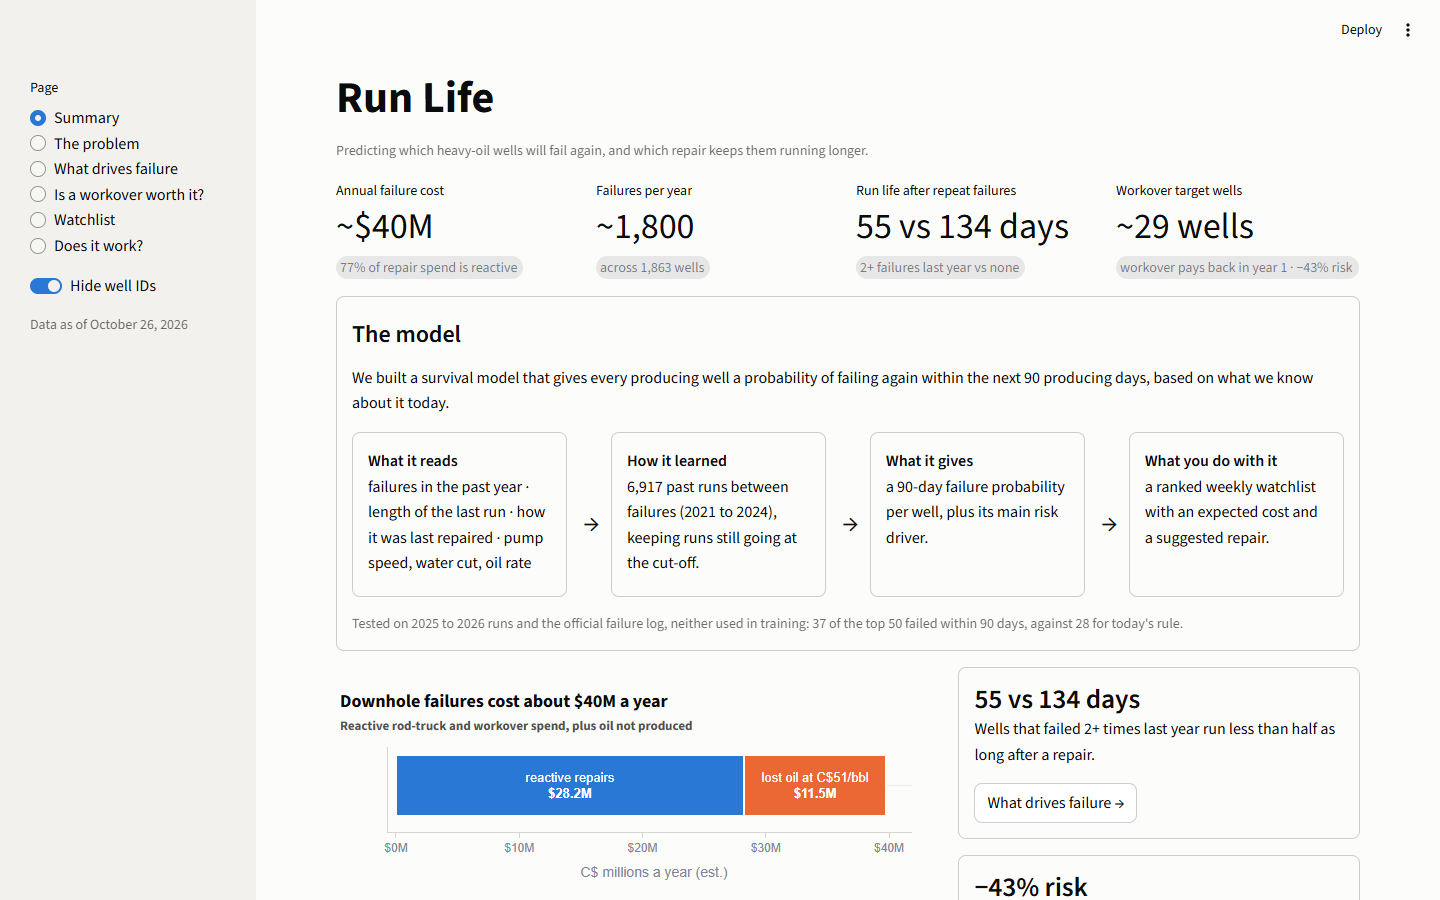
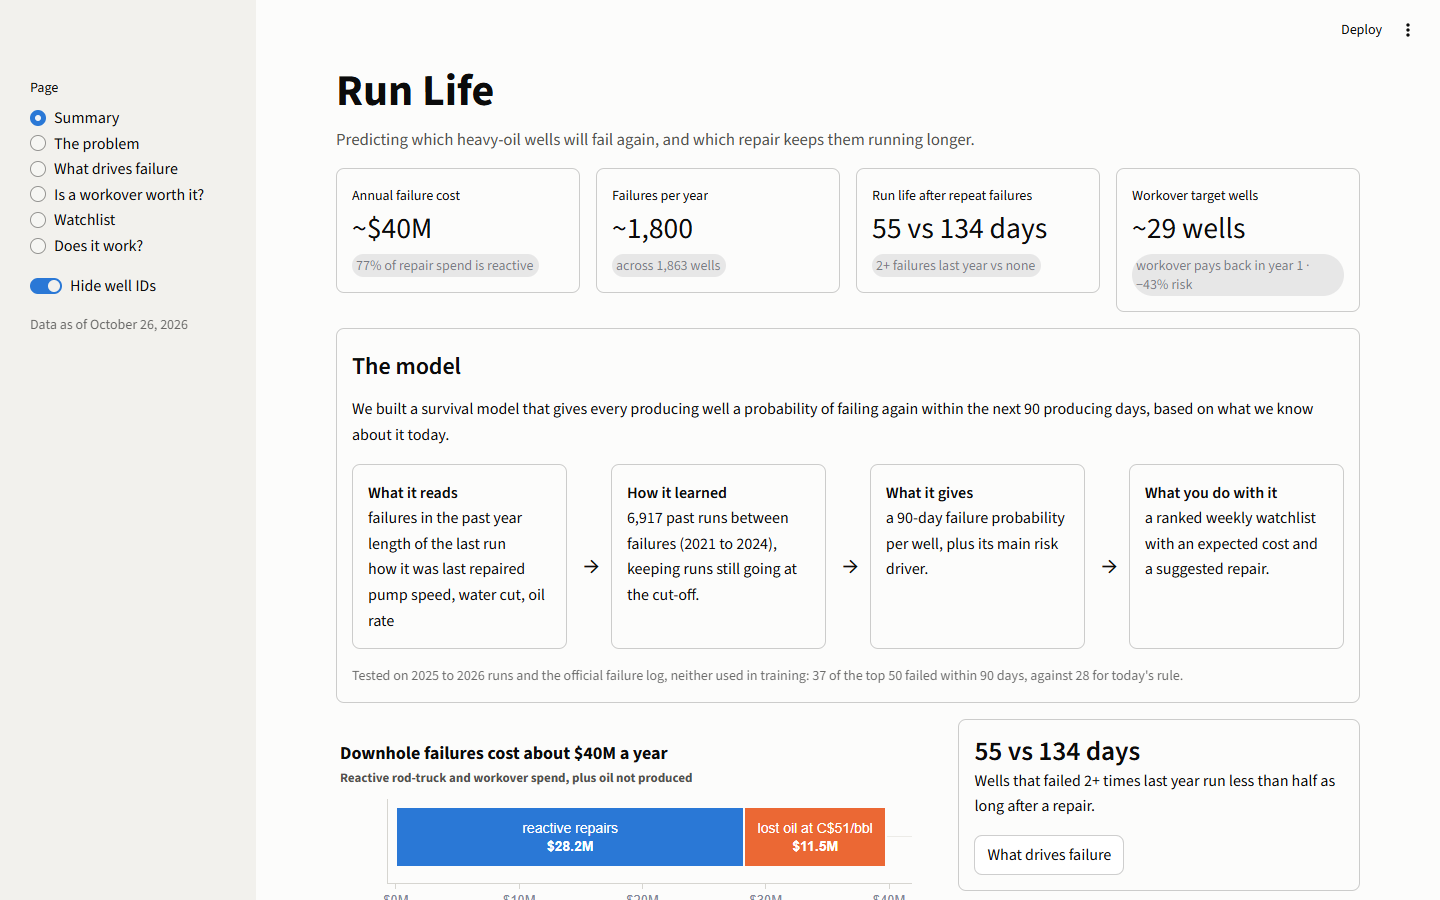
UI polish: width, cards, side-by-side charts

diff --git a/app.py b/app.py
@@ -80,8 +80,8 @@ def well_daily(uwi, end):
     return al.well_daily(uwi, end)
 
 
-def chart(fig):
-    st.plotly_chart(fig, width="stretch")
+chart = ui.chart
+H = ui.CHART_HEIGHT
 
 
 PAGES = {"summary": "Summary", "problem": "The problem", "drivers": "What drives failure",
@@ -127,7 +127,7 @@ if page == "Summary":
         st.markdown("#### The model")
         st.markdown(al.MODEL_SENTENCE)
         steps = [
-            ("What it reads", "failures in the past year · length of the last run · how it was last repaired · "
+            ("What it reads", "failures in the past year  \nlength of the last run  \nhow it was last repaired  \n"
                               "pump speed, water cut, oil rate"),
             ("How it learned", f"{mf['train_runs']:,} past runs between failures ({mf['train_years']}), "
                                "keeping runs still going at the cut-off."),
@@ -136,7 +136,7 @@ if page == "Summary":
         ]
         cols = st.columns([9, 1, 9, 1, 9, 1, 9], vertical_alignment="center")
         for i, (head, body) in enumerate(steps):
-            with cols[2 * i].container(border=True, height=165):
+            with cols[2 * i].container(border=True, height=185):
                 st.markdown(f"**{head}**  \n{body}")
             if i < len(steps) - 1:
                 cols[2 * i + 1].markdown("<div style='text-align:center;font-size:1.6rem'>→</div>",
@@ -149,9 +149,9 @@ if page == "Summary":
     with left:
         chart(plots.cost_per_year(d["sizing"], oil_value=oil))
         st.markdown("**What to do on Monday**")
-        st.markdown(f"1. **Review the top {k}:** check the watchlist every week.\n"
-                    f"2. **Workover, not a quick fix:** on the ~{N} target wells, at their next failure.\n"
-                    "3. **Check pump speed:** on high-RPM wells that keep failing.")
+        st.markdown(f"- **Review the top {k}:** check the watchlist every week.\n"
+                    f"- **Workover, not a quick fix:** on the ~{N} target wells, at their next failure.\n"
+                    "- **Check pump speed:** on high-RPM wells that keep failing.")
     with right:
         ui.insight_card(f"{n['days_2plus']:.0f} vs {n['days_none']:.0f} days",
                         f"Wells that failed 2+ times last year run {al.as_long(n['days_2plus'] / n['days_none'])} "
@@ -162,7 +162,7 @@ if page == "Summary":
         ui.insight_card(f"{n['model_hits']:.0f} of {k}",
                         f"Of our top {k} flagged wells, {n['model_hits']:.0f} failed within 90 days, vs "
                         f"{n['rule_hits']:.0f} for today's rule.", PAGES["watchlist"],
-                        button="See the watchlist →", key="go_watchlist")
+                        button="See the watchlist", key="go_watchlist")
 
     st.divider()
     ui.footer(f"Research question: {al.RESEARCH_QUESTION}")
@@ -176,15 +176,18 @@ elif page == "The problem":
     ui.kpi_strip([
         ("Failures per producing well-year", f"{n['failures_per_well_year']:.2f}",
          f"1 every {n['producing_days_per_failure']:.0f} producing days"),
-        ("Fail again within 30 days", f"{n['repeat_30d']:.0%}", "of repaired wells"),
+        ("Fail again within 30 days", f"{n['repeat_30d']:.0%}", "of repairs"),
         ("Reactive repair spend", f"{n['reactive_share']:.0%}",
          f"of ${n['repair_spend'] / 1e6:.0f}M total repair spend"),
     ])
     ui.so_what("Focus on a short list of wells, not the whole fleet.")
-    chart(plots.concentration(d["pareto"]))
+    left, right = st.columns([3, 2])
+    with left:
+        chart(plots.concentration(d["pareto"]), height=H, hide_title=True)
+    with right:
+        chart(plots.cost_per_year(d["sizing"], oil_value=oil), height=H)
     with st.expander("More detail"):
         chart(plots.failures_per_year(events()))
-        chart(plots.cost_per_year(d["sizing"], oil_value=oil))
     with st.expander("Technical detail"):
         st.markdown("- Failures are rebuilt from daily downtime codes: downhole days less than "
                     f"{config.EVENT_GAP_DAYS + 1} days apart count as one failure.\n"
@@ -200,13 +203,20 @@ elif page == "What drives failure":
         ("After a workover", f"{n['days_workover']:.0f} days", f"vs {n['days_rodtruck']:.0f} after rod truck only"),
     ])
     ui.so_what("A well's last year predicts its next 90 days, so the history alone can rank wells.")
-    labels = {"history": "Past failures", "rpm": "Pump speed", "water_cut": "Water cut", "repair": "Last repair"}
-    by = st.radio("Compare wells by", list(labels), format_func=labels.get, horizontal=True, key="by")
-    chart(plots.run_life(d["km_curves"], d["km_summary"], by))
-    st.caption("Each line shows the share of wells still running N days after a repair. "
-               "Lower and steeper means they break sooner.")
-    with st.expander("More detail"):
-        chart(plots.risk_drivers(d["cox_results"]))
+    left, right = st.columns([3, 2])
+    with left:
+        labels = {"history": "Past failures", "rpm": "Pump speed", "water_cut": "Water cut", "repair": "Last repair"}
+        by = st.radio("Compare wells by", list(labels), format_func=labels.get, horizontal=True, key="by")
+        chart(plots.run_life(d["km_curves"], d["km_summary"], by), height=H)
+        st.caption("Each line shows the share of wells still running N days after a repair. "
+                   "Lower and steeper means they break sooner.")
+        st.caption("Rods are the weak link: each rotation loads the rod string, so faster pumps mean more cycles "
+                   "and earlier fatigue.")
+    with right:
+        # In a narrow column the bar labels need more room on the left and a shorter axis title.
+        drivers_fig = plots.risk_drivers(d["cox_results"])
+        drivers_fig.update_xaxes(range=[-100, 45], title="change in risk (← longer runs · shorter →)")
+        chart(drivers_fig, height=H + 60)
         st.caption("How much each factor changes the risk of failure, holding the others fixed.")
     with st.expander("Technical detail"):
         st.markdown(
@@ -226,15 +236,22 @@ elif page == "Is a workover worth it?":
         ("Break-even", f"{plots.break_even_rate(inputs, oil):.1f} failures/yr", f"at C${oil:.2f}/bbl"),
     ])
     ui.so_what(f"Do a workover instead of a quick fix on the ~{N} target wells. It's not worth it fleet-wide.")
-    # The callback stores the new value before the rerun, so the header,
-    # tiles and "So what" above already use it.
-    st.slider("Oil value, C$/bbl", 35.0, 70.0, oil, key="oil",
-              on_change=lambda: st.session_state.update(oil_value=st.session_state["oil"]))
-    chart(plots.workover_payback(inputs, oil_value=oil))
-    with st.expander("More detail"):
-        chart(plots.run_life(d["km_curves"], d["km_summary"], "repair"))
+    left, right = st.columns([3, 2])
+    with left:
+        # The callback stores the new value before the rerun, so the header,
+        # tiles and "So what" above already use it.
+        st.slider("Oil value, C$/bbl", 35.0, 70.0, oil, key="oil",
+                  on_change=lambda: st.session_state.update(oil_value=st.session_state["oil"]))
+        payback_fig = plots.workover_payback(inputs, oil_value=oil)
+        # At this width the 1-year label collides with the break-even label, so it moves to the left end.
+        payback_fig.update_annotations(selector=dict(text="pays back within a year"), x=0, xanchor="left")
+        chart(payback_fig, height=H, hide_title=True)
+        st.caption("A workover replaces worn tubing and downhole equipment; a rod-truck job only swaps rods and "
+                   "pump, so the underlying wear stays.")
+    with right:
+        chart(plots.run_life(d["km_curves"], d["km_summary"], "repair"), height=H + 75)
     with st.expander("Technical detail"):
-        st.markdown(
+        st.markdown(ui.md_safe(
             f"- One failure costs the median rod-truck repair (${inputs['rodtruck_cost']:,.0f}) plus the lost oil "
             f"(fleet mean {inputs['oil_m3_per_event']:.1f} m³ per failure × 6.29 bbl/m³ × the oil value).\n"
             f"- Extra cost = median workover (${inputs['workover_cost']:,.0f}) minus median rod-truck job. The Cox "
@@ -246,7 +263,7 @@ elif page == "Is a workover worth it?":
             f"one year of avoided failures at their own cost per failure beats the extra cost: {N} wells, "
             f"~{imp['failures_avoided']:.0f} failures avoided a year.\n"
             f"- Year-one net saving on those wells: about ${imp['net_savings_year1'] / 1e6:.1f}M after paying for "
-            "the workovers; the benefit continues after year one.")
+            "the workovers; the benefit continues after year one."))
 
 # --------------------------------------------------------------------------
 elif page == "Watchlist":
@@ -272,17 +289,20 @@ elif page == "Watchlist":
             ("Expected failures", f"{top.risk_90.sum():.0f} of {len(top)}", "in the next 90 days"),
             ("Expected failure cost", f"${cost_top / 1e3:,.0f}k", f"next 90 days at C${oil:.0f}/bbl"),
         ])
-        ui.so_what(f"These {len(top)} wells carry ${cost_top:,.0f} of expected failure cost in the next 90 days; "
-                   f"{n_wo} should get a workover at their next failure.")
+        ui.so_what(f"These {len(top)} wells carry ${cost_top / 1e3:,.0f}k of expected failure cost in the next "
+                   f"90 days; {n_wo} should get a workover at their next failure.")
 
-    money = st.column_config.NumberColumn(format="$%.0f")
     default_cols = ["well", "area", "risk_90", "expected cost, 90 days", "main driver", "suggested action"]
-    # Shown as whole percent and whole dollars; the download keeps full precision.
-    st.dataframe(table.assign(risk_90=table.risk_90 * 100), hide_index=True, width="stretch",
+    # Shown as whole percent and dollars with separators; the download keeps
+    # full precision. Money is preformatted text because Streamlit's number
+    # formats cannot add thousands separators without also adding cents.
+    shown = table.assign(risk_90=table.risk_90 * 100)
+    for c in ["expected cost, 90 days", "cost per failure"]:
+        shown[c] = shown[c].map(lambda v: f"${v:,.0f}")
+    st.dataframe(shown, hide_index=True, width="stretch",
                  column_order=None if all_cols else default_cols, column_config={
                      "risk_90": st.column_config.ProgressColumn("risk %", format="%.0f%%",
                                                                 min_value=0.0, max_value=100.0),
-                     "expected cost, 90 days": money, "cost per failure": money,
                      "workover payback, yrs": st.column_config.NumberColumn(format="%.1f"),
                  })
     st.caption(f"{len(table):,} wells, sorted by {sort}; expected cost = risk × cost of one failure at "
@@ -299,22 +319,18 @@ elif page == "Watchlist":
         end = al.as_of(wl)
         c1, c2 = st.columns(2)
         with c1:
-            chart(plots.well_outlook(al.well_survival(model(), run), elapsed, label=name))
+            chart(plots.well_outlook(al.well_survival(model(), run), elapsed, label=name), height=H)
         with c2.container(border=True):
-            st.markdown(f"**What if? Next repair on {name}**")
+            st.markdown("**After its next repair: what if?**")
             lo, hi = rpm_range()
             now_rpm = al.current_rpm(run, model())
             repair = st.radio("Repair at the next failure", list(al.REPAIRS), horizontal=True, key="wi_repair")
             rpm = st.slider("Pump speed after restart, rpm", lo, hi, min(max(now_rpm, lo), hi), 1.0, format="%.0f",
                             key=f"wi_rpm_{uwi}")  # per well, so it starts at that well's speed
             wi = al.whatif(run, model(), events(), end, repair, rpm).set_index("option")
-            ui.kpi_strip([
-                (f"{repair} at {rpm:.0f} rpm", f"{wi.risk_90[repair]:.0%}",
-                 f"{(wi.risk_90[repair] - wi.risk_90['baseline']) * 100:+.0f} pts vs rod truck at today's speed"),
-                (f"Rod truck only at {now_rpm:.0f} rpm", f"{wi.risk_90['baseline']:.0%}", "today's speed"),
-            ])
+            st.markdown(al.whatif_sentence(wi))
             chart(plots.repair_options(wi.reset_index()))
-            st.markdown(al.whatif_note(ew.set_index("uwi").loc[uwi], payback_inputs()))
+            st.markdown(ui.md_safe(al.whatif_note(ew.set_index("uwi").loc[uwi], payback_inputs())))
             st.caption("Model estimate based on similar past runs; associations, not guaranteed effects.")
         with st.expander("More detail"):
             chart(plots.well_history(well_daily(uwi, end), al.well_events(events(), uwi, end)))
@@ -340,7 +356,12 @@ elif page == "Does it work?":
     ])
     ui.so_what(f"Same {k} well visits, about {imp['extra_hits']:.0f} more of the right wells: "
                f"{imp['lift_pct']:.0%} better targeting.")
-    chart(plots.model_vs_rule(d["model_eval"], "official"))
+    left, right = st.columns([3, 2])
+    with left:
+        chart(plots.model_vs_rule(d["model_eval"], "official"), height=H, hide_title=True)
+    with right:
+        chart(plots.calibration(d["calibration"]), height=H + 55)
+        st.caption("When we say 70%, about 70% fail.")
 
     st.subheader("Replay: what the watchlist would have said")
     st.caption("Each date is after the model was built; every open well is scored as it stood that day and "
@@ -352,22 +373,21 @@ elif page == "Does it work?":
     top = rp[rp.date.astype(str) == day].assign(label=lambda x: al.show_id(x.uwi, aliases, hide))
     g1, g2 = st.columns([3, 2])
     with g1:
-        chart(plots.replay_top50(top, top_n=k))
+        chart(plots.replay_top50(top, top_n=k), fixed_width=520)
     with g2:
         ui.kpi_strip([
             ("Our model", f"{r.model_top50_hits:.0f}", f"of {k}"),
-            ("Today's rule", f"{r.rule_top50_mean:.1f}", f"range {r.rule_top50_min:.0f} to {r.rule_top50_max:.0f}"),
-            ("Random 50", f"{r.random_top50:.1f}", f"{r.base_rate:.0%} base rate"),
+            ("Today's rule", f"{r.rule_top50_mean:.0f}", f"range {r.rule_top50_min:.0f} to {r.rule_top50_max:.0f}"),
+            ("Random 50", f"{r.random_top50:.0f}", f"{r.base_rate:.0%} base rate"),
         ])
         chart(plots.replay_trend(summ, top_n=k))
 
+    st.subheader("How this runs in production")
+    st.markdown(ui.md_safe(al.PRODUCTION_NOTES))
+
     with st.expander("More detail"):
-        chart(plots.calibration(d["calibration"]))
-        st.caption("When we say 70%, about 70% fail.")
         chart(plots.what_breaks(d["event_validation"]))
         st.caption(f"Our failure records match the official log {n['recall']:.0%} of the time.")
-        st.markdown("**How this runs in production**")
-        st.markdown(al.PRODUCTION_NOTES)
     with st.expander("Technical detail"):
         st.markdown(f"**Research question:** {al.RESEARCH_QUESTION}")
         st.markdown(f"**The model:** {al.MODEL_SENTENCE}")

diff --git a/src/ui.py b/src/ui.py
@@ -1,42 +1,61 @@
 """Shared page building blocks, so every page of the app has the same layout.
 
-Each page is built in the same order: page_header, kpi_strip, so_what, one
-main chart, then "More detail" and "Technical detail" expanders.
+Each page is built in the same order: page_header, kpi_strip, so_what, the
+main and secondary chart side by side, then "More detail" and
+"Technical detail" expanders.
 """
 from __future__ import annotations
 
+import re
+
+import plotly.graph_objects as go
 import streamlit as st
 
 PAGE_KEY = "page"
+SUBTITLE_COLOR = "#52514e"
+CHART_HEIGHT = 380
+
+# One style block for the whole app.
+#  - Content width is capped so lines and charts stay readable on wide screens.
+#  - Metric values and captions wrap instead of being cut off with "..." in narrow cards.
+#  - Metric captions are descriptions or comparisons ("vs 134 with none"), not
+#    changes, so the up/down arrow Streamlit adds would wrongly suggest good or bad.
+_CSS = f"""
+<style>
+.block-container {{max-width: 1280px; padding-top: 2.75rem;}}
+[data-testid='stMetricDelta'] svg {{display: none;}}
+[data-testid='stMetricValue'] {{font-size: 1.85rem !important;}}
+[data-testid='stMetricValue'] > div, [data-testid='stMetricDelta'] > div {{white-space: normal !important; overflow: visible !important; text-overflow: clip !important;}}
+.page-subtitle {{font-size: 1.05rem; color: {SUBTITLE_COLOR}; margin: -0.4rem 0 0.9rem;}}
+</style>
+"""
 
 
 def base_style() -> None:
-    """Hide the arrow on metric captions and tighten the top padding.
+    # st.html applies a style-only block without taking up space; st.markdown drops <style> here.
+    st.html(_CSS)
 
-    Metric captions here are descriptions or comparisons ("vs 134 with none"),
-    not changes, so an up/down arrow would wrongly suggest good or bad.
-    """
-    st.markdown(
-        "<style>"
-        "[data-testid='stMetricDelta'] svg{display:none}"
-        ".block-container{padding-top:2.2rem}"
-        "</style>", unsafe_allow_html=True)
+
+def md_safe(text: str) -> str:
+    """Escape "$" so Streamlit markdown does not read text between two of them as maths."""
+    return text.replace("$", "\\$")
 
 
 def page_header(title: str, subtitle: str, top: bool = False) -> None:
     """The page's finding as a header (or the app title on the first page), with one plain subtitle."""
     (st.title if top else st.header)(title)
-    st.caption(subtitle)
+    st.markdown(f"<div class='page-subtitle'>{subtitle}</div>", unsafe_allow_html=True)
 
 
 def kpi_strip(items: list[tuple[str, str, str]]) -> None:
-    """One row of metrics; each item is (label, value, caption)."""
+    """One row of metric cards; each item is (label, value, caption)."""
     for col, (label, value, caption) in zip(st.columns(len(items)), items):
-        col.metric(label, value, delta=caption, delta_color="off")
+        with col.container(border=True):
+            st.metric(label, value, delta=caption, delta_color="off")
 
 
 def so_what(text: str) -> None:
-    st.info(f"**So what:** {text}")
+    st.info(f"**So what:** {md_safe(text)}")
 
 
 def _go(page: str) -> None:
@@ -48,9 +67,39 @@ def insight_card(metric: str, body: str, page: str, button: str | None = None, k
     with st.container(border=True):
         st.markdown(f"<div style='font-size:1.7rem;font-weight:600;line-height:1.2'>{metric}</div>",
                     unsafe_allow_html=True)
-        st.markdown(body)
-        st.button(button or f"{page} →", key=key or f"go_{page}", on_click=_go, args=(page,))
+        st.markdown(md_safe(body))
+        st.button(button or page, key=key or f"go_{page}", on_click=_go, args=(page,))
 
 
 def footer(text: str) -> None:
     st.caption(text)
+
+
+def _subtitle(fig: go.Figure) -> str:
+    m = re.search(r"<span[^>]*>(.*?)</span>", fig.layout.title.text or "")
+    return m.group(1) if m else ""
+
+
+def chart(fig: go.Figure, height: int | None = None, hide_title: bool = False, fixed_width: int | None = None) -> None:
+    """Show a plots.py figure with the app's chart text sizes.
+
+    hide_title drops a title that repeats the page header and shows the
+    subtitle as a caption above the chart instead. The figure is copied, so
+    the same function still gives the full title in docs/figures exports.
+    """
+    fig = go.Figure(fig)
+    if hide_title:
+        sub = _subtitle(fig)
+        if sub:
+            st.caption(md_safe(sub.replace("&#36;", "$")))
+        fig.update_layout(title_text="", margin_t=25)
+    fig.update_layout(font_size=14)
+    fig.update_xaxes(tickfont_size=13)
+    fig.update_yaxes(tickfont_size=13)
+    if height:
+        fig.update_layout(height=height)
+    if fixed_width:
+        fig.update_layout(width=fixed_width)
+        st.plotly_chart(fig, width="content")
+    else:
+        st.plotly_chart(fig, width="stretch")

diff --git a/src/app_logic.py b/src/app_logic.py
@@ -384,6 +384,13 @@ def whatif(run_row: pd.DataFrame, bundle: dict, events: pd.DataFrame, as_of: pd.
                          "chosen": [n == repair for n in rows]})
 
 
+def whatif_sentence(wi: pd.DataFrame) -> str:
+    """The three repair options' 90-day risks in one sentence; wi is whatif() indexed by option."""
+    r = wi.risk_90
+    return (f"If it fails and gets a rod-truck fix: {r['Rod truck only']:.0%} chance it fails again within "
+            f"{config.HORIZON_DAYS} days. Workover: {r['Workover']:.0%}. New rod string: {r['New rod string']:.0%}.")
+
+
 def whatif_note(enriched_row: pd.Series, inputs: dict) -> str:
     extra = inputs["workover_cost"] - inputs["rodtruck_cost"]
     return (f"Extra cost ${extra:,.0f}; this well failed {int(enriched_row.fails_prior_365)} times in the past year; "

diff --git a/src/plots.py b/src/plots.py
@@ -371,8 +371,8 @@ def well_outlook(survival, elapsed_days, horizon=180, label="this well"):
     fig.update_xaxes(title="producing days from today", range=[0, horizon])
     fig.update_yaxes(title="chance it has failed", ticksuffix="%", range=[0, 100])
     fig.update_layout(showlegend=False)
-    return _style(fig, f"Outlook for {label}", f"Already running {elapsed_days:.0f} producing days",
-                  height=340)
+    return _style(fig, "From today: chance this well fails",
+                  f"{label}, already running {elapsed_days:.0f} producing days", height=340)
 
 
 def repair_options(df):
